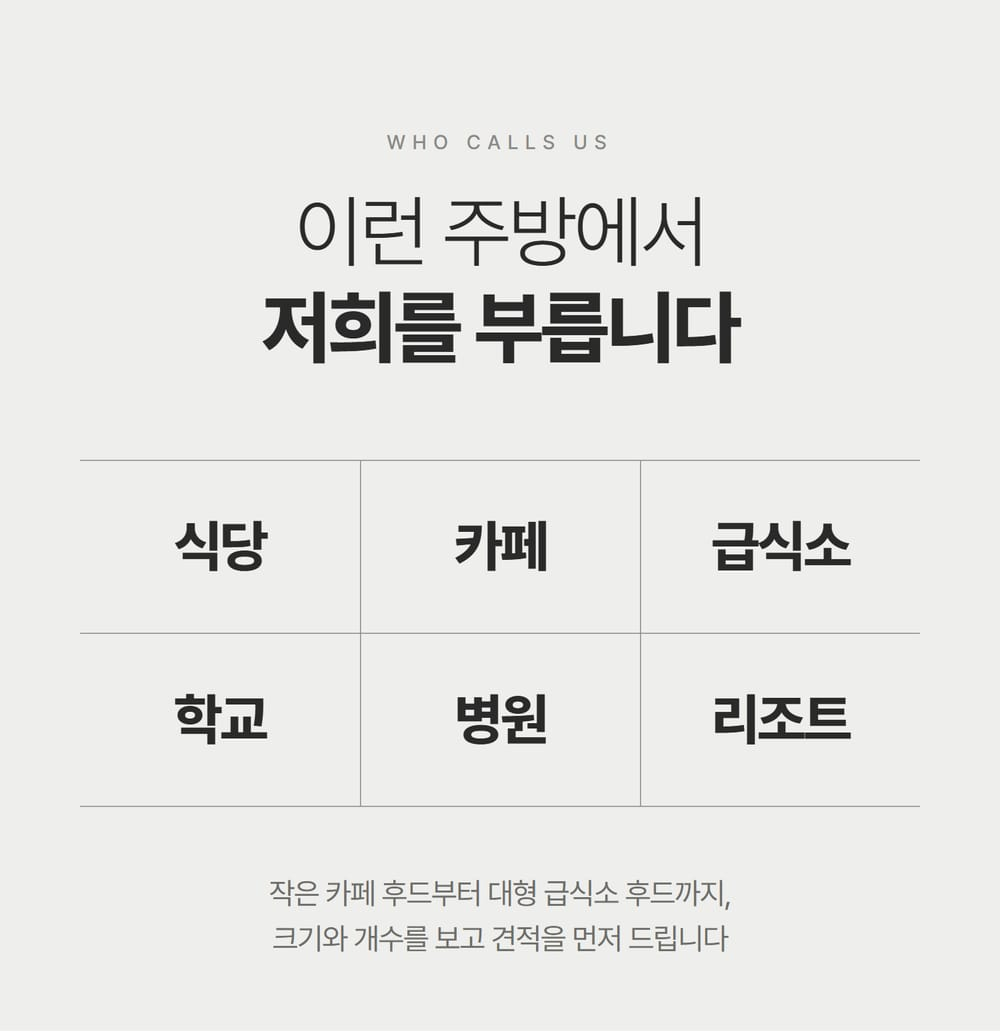
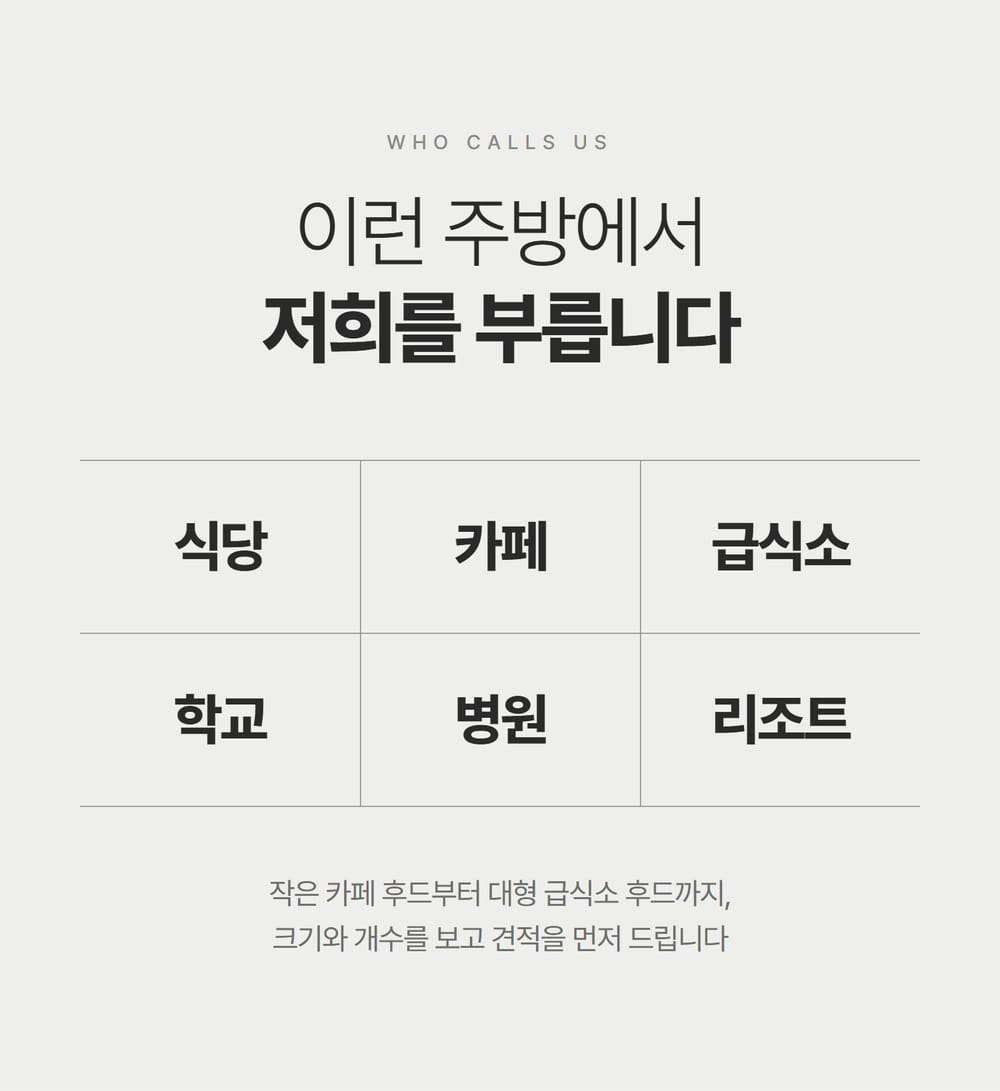
feat: 주방후드 랜딩 s6b 가정용 챕터 추가

diff --git a/public/hood.html b/public/hood.html
@@ -103,7 +103,7 @@ footer b{color:var(--ink)}
   <a class="top-tel" href="tel:18662003">1866-2003</a>
 </header>
 
-<!-- 이미지 파일: public/img/hood/s1.jpg ~ s13.jpg -->
+<!-- 이미지 파일: public/img/hood/s1.jpg ~ s13.jpg + s6b.jpg (14장) -->
 <div class="sec" data-img="img/hood/s1.jpg" data-alt="식당 후드, 영업 끝나고 저희가 들어갑니다. 업소용 주방후드 분해 세척 전문팀" data-label="S1 히어로"></div>
 
 <a class="tel-band" href="tel:18662003">
@@ -153,6 +153,7 @@ footer b{color:var(--ink)}
 
 <div class="sec" data-img="img/hood/s5.jpg" data-alt="영업은 그대로, 후드는 깨끗하게. 야간 작업 추가금 0원, 영업 중단 0시간, 업소용 시작가 19.8만원~ (VAT 별도)" data-label="S5 업소용 큰 숫자"></div>
 <div class="sec" data-img="img/hood/s6.jpg" data-alt="이런 주방에서 저희를 부릅니다. 식당, 카페, 급식소, 학교, 병원, 리조트" data-label="S6 이런 주방에서 부릅니다"></div>
+<div class="sec" data-img="img/hood/s6b.jpg" data-alt="가정집 후드도 똑같이 분해합니다. 가정용 100,000원부터" data-label="S6b 가정용 챕터"></div>
 <div class="sec" data-img="img/hood/s7.jpg" data-alt="더 깊게. 커버·필터 전부 분리, 시로코팬·모터 주변 분해 세척, 안쪽 케이싱까지 기름 제거" data-label="S7 더 깊게"></div>
 <div class="sec" data-img="img/hood/s8.jpg" data-alt="더 꼼꼼하게. 세척액에 담가 굳은 기름을 녹이고, 손으로 한 번 더, 조립 뒤 흡입력 확인" data-label="S8 더 꼼꼼하게"></div>
 <div class="sec" data-img="img/hood/s9.jpg" data-alt="더 확실하게. 작업 전후 사진, 추가금은 작업 전에만, 작동 확인 후 결제" data-label="S9 더 확실하게"></div>

diff --git a/design/hood/sections/s6b.html b/design/hood/sections/s6b.html
@@ -1,0 +1,29 @@
+<!doctype html>
+<html lang="ko"><head><meta charset="utf-8"><link rel="stylesheet" href="style.css">
+<style>
+  /* 업소용 구간이 끝나고 가정용이 시작되는 챕터 표지 */
+  .s6b { padding: 0; background: var(--char); }
+  .s6b .full { height: 640px; object-fit: cover; object-position: center 22%; }
+  .s6b .band { padding: 80px 40px; color: var(--white); }
+  .s6b .title { margin-top: 26px; line-height: 1.16; color: var(--white); }
+  .s6b .title .l { font-size: 72px; }
+  .s6b .title .b { font-size: 88px; }
+  .s6b .title .hot { color: #FF5A4F; }
+  .s6b .lead { margin-top: 30px; font-size: 30px; font-weight: 400; letter-spacing: -0.03em; color: #CFCFCB; }
+  .s6b .bar { width: 40px; height: 2px; background: #FF5A4F; margin: 52px auto 0; }
+  .s6b .price { margin-top: 36px; font-size: 96px; font-weight: 800; letter-spacing: -0.045em; line-height: 1; color: #FF5A4F; }
+  .s6b .cap { margin-top: 20px; font-size: 26px; font-weight: 500; letter-spacing: -0.02em; color: #CFCFCB; }
+</style></head>
+<body>
+<section class="sec s6b">
+  <img class="full" src="../photos/h1_hero.jpg" alt="">
+  <div class="band">
+    <p class="eyebrow">FOR HOMES</p>
+    <h2 class="title"><span class="l">가정집 후드도</span><br><span class="b">똑같이 <span class="hot">분해</span>합니다</span></h2>
+    <p class="lead">아파트 · 주택 · 오피스텔 — 업소용과 같은 팀, 같은 방식</p>
+    <div class="bar"></div>
+    <p class="price">100,000원~</p>
+    <p class="cap">가정용 · VAT 별도</p>
+  </div>
+</section>
+</body></html>

diff --git a/design/hood/sections/s7.html b/design/hood/sections/s7.html
@@ -1,8 +1,8 @@
 <!doctype html>
 <html lang="ko"><head><meta charset="utf-8"><link rel="stylesheet" href="style.css">
 <style>
-  /* 위 섹션(S6)과 같은 바탕색으로 이어짐 */
-  .s7 { padding-top: 60px; padding-bottom: 120px; }
+  /* 위 S6b 차콜 띠 바로 아래에서 #EEEEEC 바탕으로 이어짐 */
+  .s7 { padding-top: 110px; padding-bottom: 120px; }
   .s7 .fig { width: 1000px; height: 880px; margin-top: 80px; }
   .s7 .fig img { position: absolute; left: 70px; top: 0; width: 660px; height: 880px; object-fit: cover; }
 </style></head>

diff --git a/design/hood/sections/s6.html b/design/hood/sections/s6.html
@@ -7,7 +7,6 @@
   .s6 .grid div:nth-child(3n+2), .s6 .grid div:nth-child(3n+3) { border-left: 1px solid var(--sub); }
   .s6 .grid div:nth-child(n+4) { border-top: 1px solid var(--sub); }
   .s6 .foot { margin: 64px 90px 0; font-size: 30px; font-weight: 400; letter-spacing: -0.035em; line-height: 1.5; color: var(--text-sub); text-wrap: balance; }
-  .s6 { padding-bottom: 70px; }
 </style></head>
 <body>
 <section class="sec s6 bg-grey">
